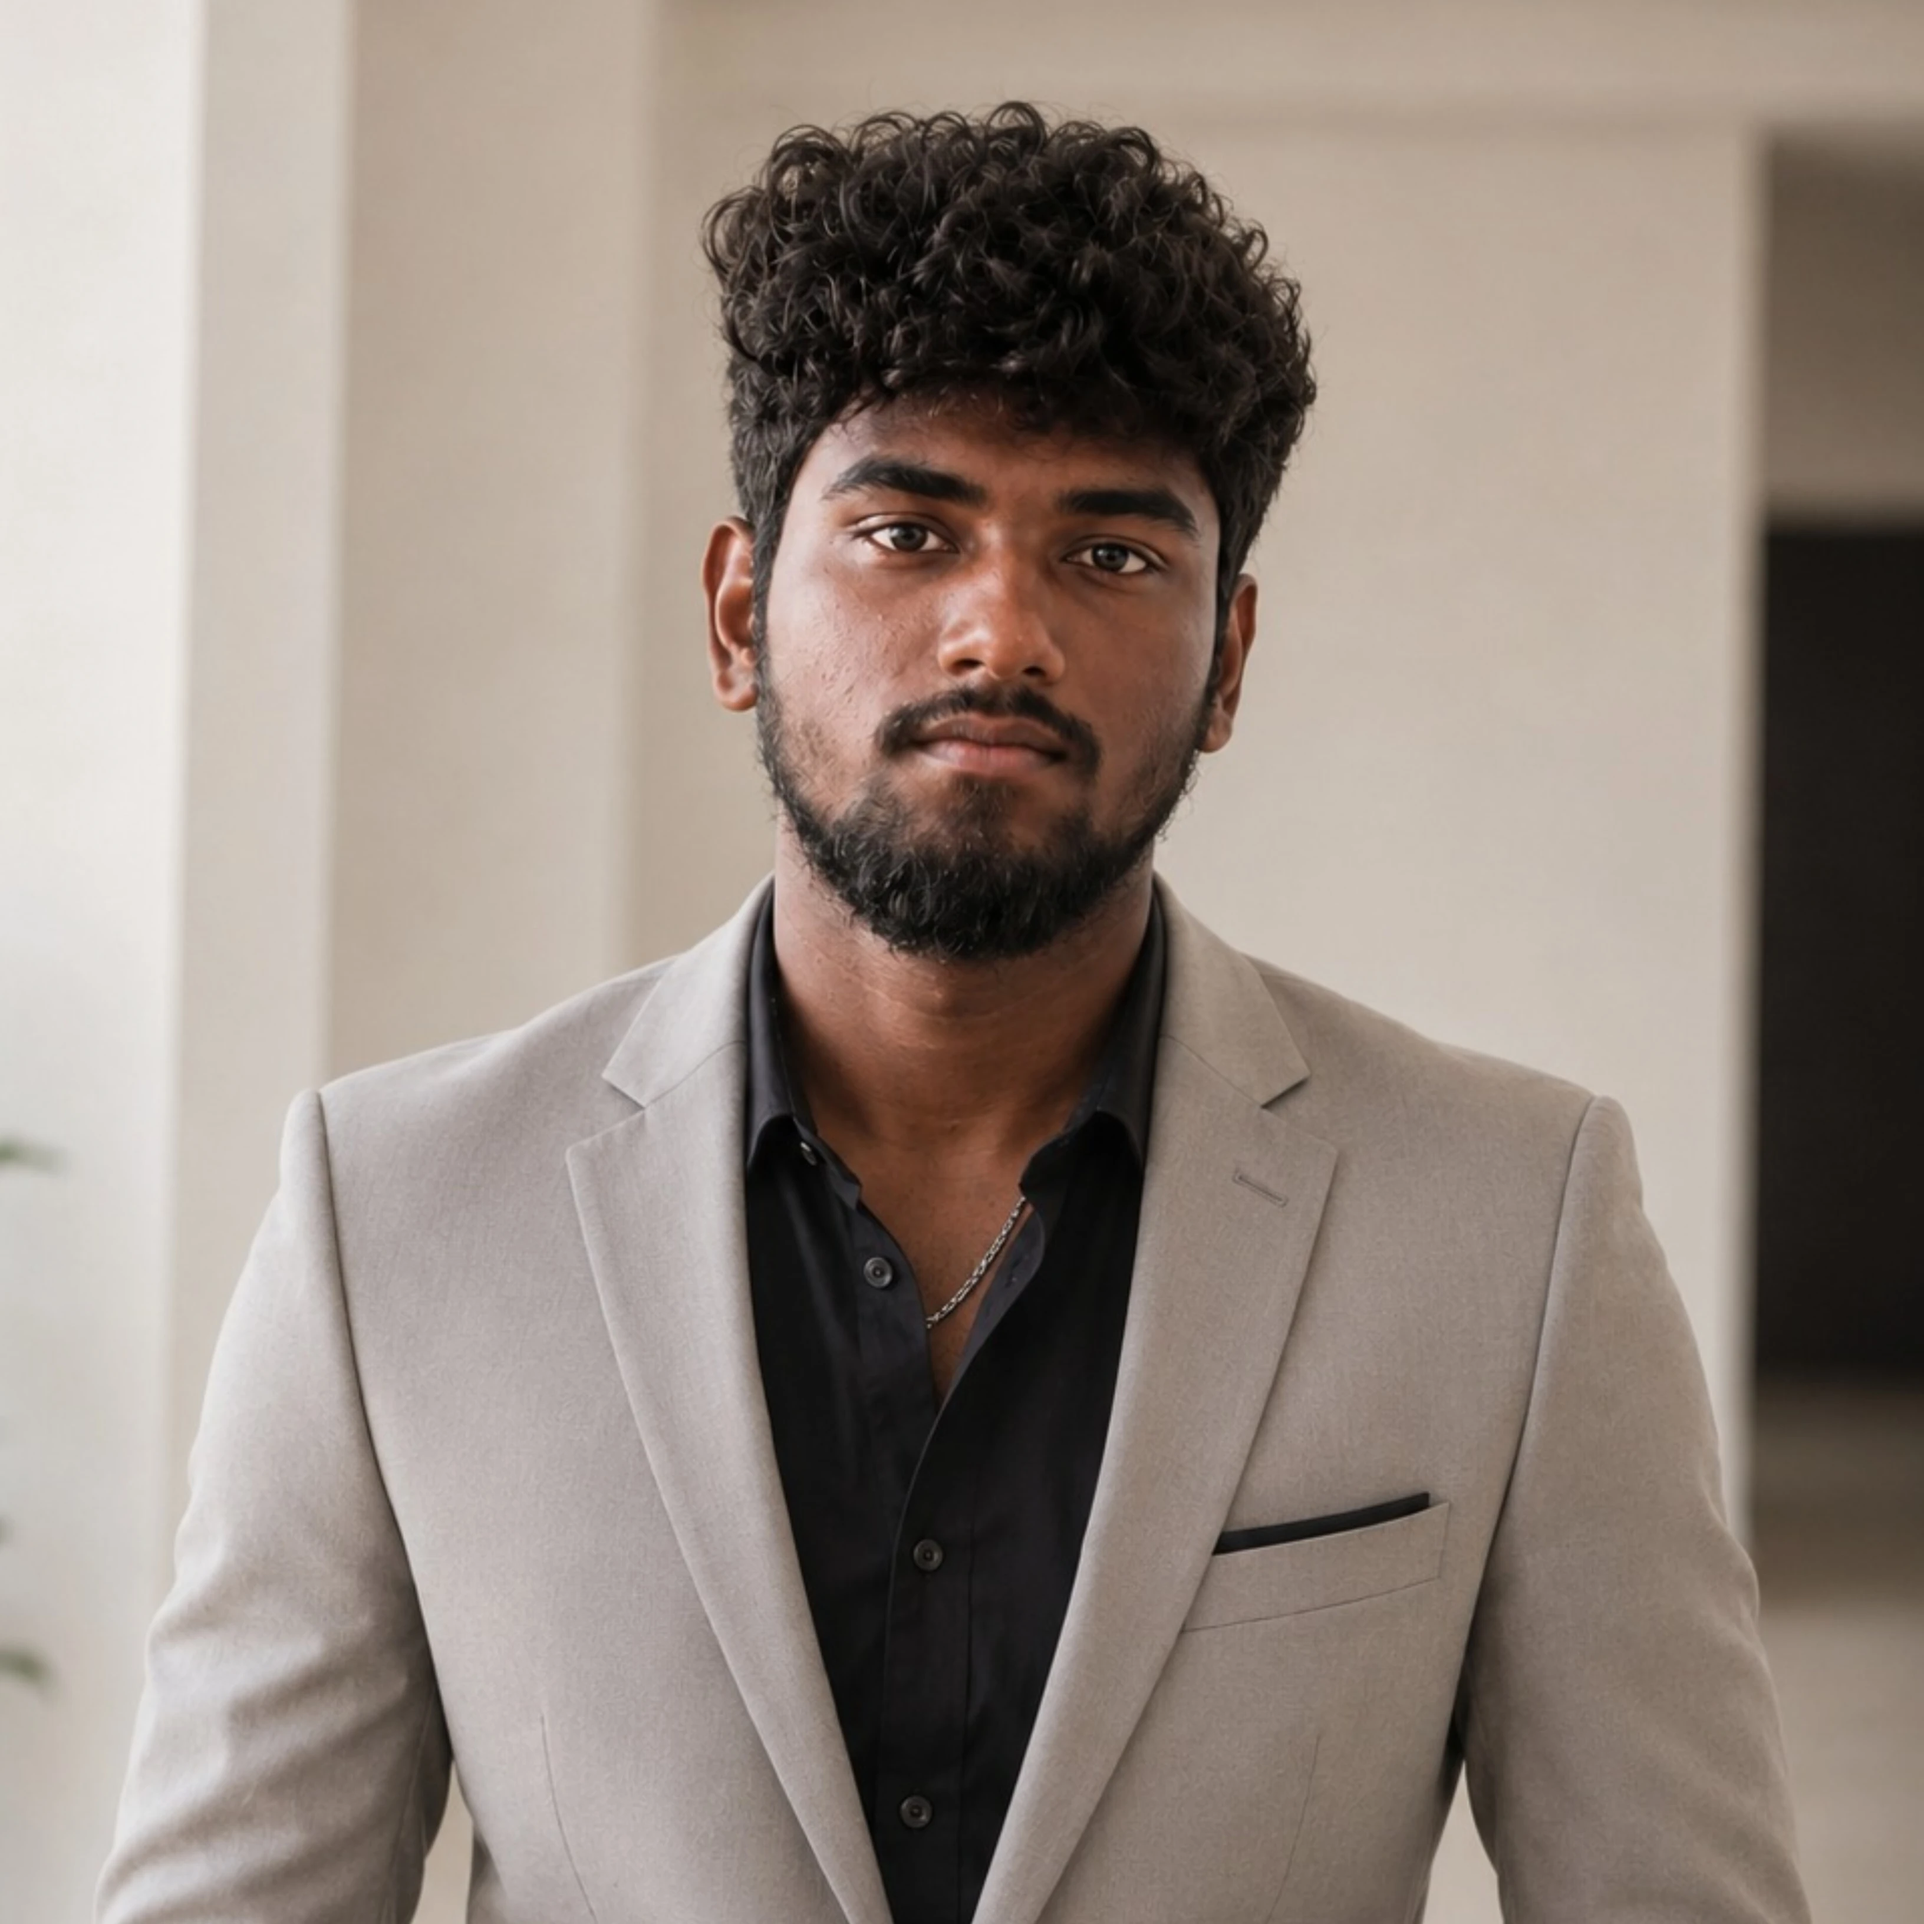
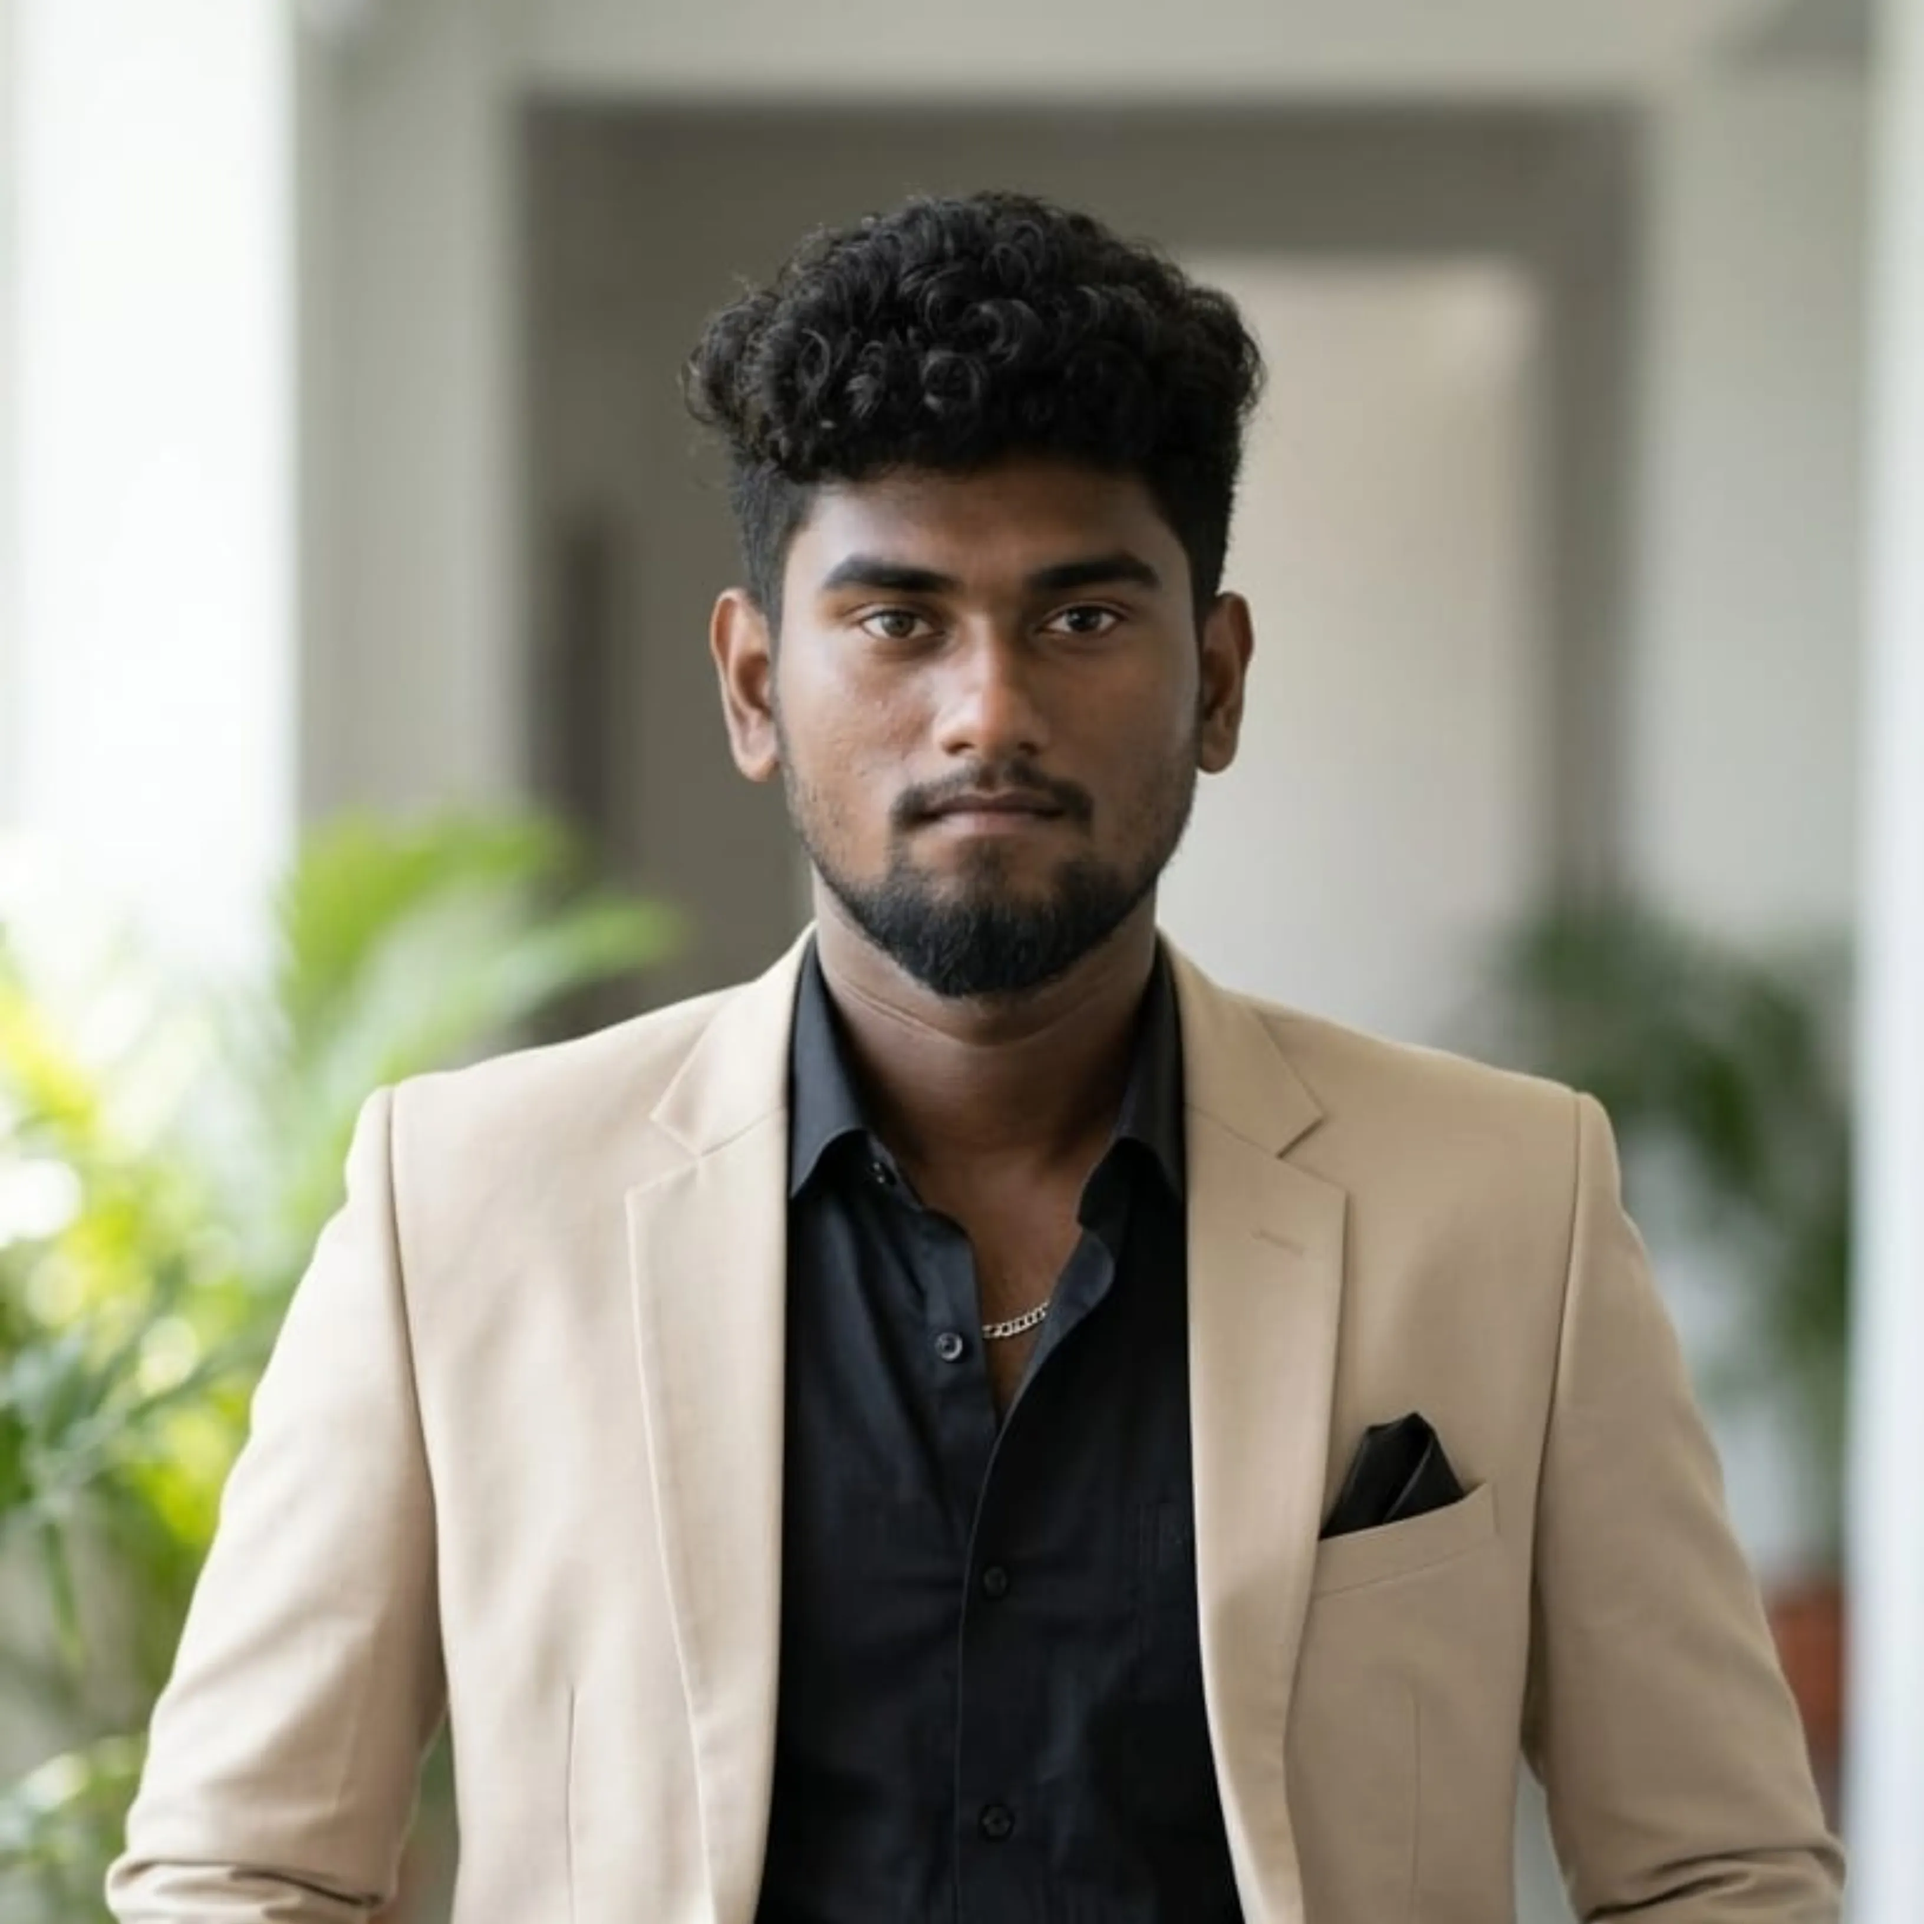
added

diff --git a/components/partner/PartnerAppSection.tsx b/components/partner/PartnerAppSection.tsx
@@ -71,23 +71,23 @@ export default function PartnerAppSection() {
             </div>
 
             {/* Right Action Column */}
-            <div className="lg:col-span-6 flex flex-col justify-center items-center bg-surface-off border border-surface-border rounded-3xl p-8 sm:p-12">
+            <div className="lg:col-span-6 flex flex-col justify-center items-center bg-navy border border-white/10 rounded-3xl p-8 sm:p-12">
               <motion.div
                 initial="hidden"
                 whileInView="visible"
                 viewport={{ once: true, margin: '-60px' }}
                 variants={fadeUp}
                 transition={{ ...TRANSITION_DEFAULT, delay: 0.15 }}
-                className="text-center space-y-6 w-full max-w-sm"
+                className="text-center space-y-6 w-full"
               >
                 <span className="text-xs font-bold text-lime uppercase tracking-widest block">
                   Download Partner App
                 </span>
-                <p className="text-sm text-text-soft leading-relaxed">
-                  Access partner tools directly. Install the Salon Partner application on supported Android systems.
+                <p className="text-sm text-white/70 leading-relaxed">
+                  Access partner tools directly. Install the Salon Partner application on Android or iOS.
                 </p>
                 
-                {/* Embedded central store app action buttons (iOS is hidden via props) */}
+                {/* Embedded central store app action buttons */}
                 <div className="flex flex-col items-center gap-4 pt-2">
                   <AppStoreActions type="partner" />
                 </div>

diff --git a/components/about/AboutProblem.tsx b/components/about/AboutProblem.tsx
@@ -7,8 +7,8 @@ import { fadeUp, TRANSITION_DEFAULT } from '@/lib/tokens'
 import { teamData } from '@/lib/companyData'
 
 export default function AboutProblem() {
-  const founderName = teamData.founders.find(f => f.role === 'Founder')?.name || 'Jayaprakash Thangavel'
-  const coFounderName = teamData.founders.find(f => f.role === 'Co-Founder')?.name || 'Allwin E'
+  const founderName = teamData.founders.find(f => f.role === 'Founder & CEO')?.name || 'Jayaprakash Thangavel'
+  const coFounderName = teamData.founders.find(f => f.role === 'Co-Founder & COO')?.name || 'Allwin E'
 
   return (
     <section className="section-padding bg-white text-text" aria-labelledby="problem-heading">
@@ -61,12 +61,12 @@ export default function AboutProblem() {
               transition={{ duration: 0.6, ease: [0.22, 1, 0.36, 1] }}
               className="bg-surface-off border border-surface-border rounded-2xl p-6 shadow-sm relative overflow-hidden"
             >
-              <div className="relative rounded-xl overflow-hidden aspect-[4/3] mb-5 bg-surface-warm border border-surface-border">
+              <div className="relative rounded-xl overflow-hidden aspect-[3/4] mb-5 bg-surface-warm border border-surface-border">
                 <Image
                   src="/images/team/jayaprakash.webp"
                   alt="Founder Jayaprakash Thangavel"
-                  width={600}
-                  height={450}
+                  width={800}
+                  height={1067}
                   className="w-full h-full object-cover"
                   loading="lazy"
                 />

diff --git a/lib/companyData.ts b/lib/companyData.ts
@@ -22,7 +22,7 @@ export const companyData = {
     },
     partner: {
       android: 'https://play.google.com/store/apps/details?id=com.jayple.vendor',
-      ios: '', // Not yet supplied in Module 0
+      ios: 'https://apps.apple.com/in/app/jayple-partner/id6779543060',
     },
   },
 
@@ -64,14 +64,14 @@ export const teamData: {
   founders: [
     {
       name: 'Jayaprakash Thangavel',
-      role: 'Founder',
+      role: 'Founder & CEO',
       bio: "Leading Jayple's vision and shaping ideas into meaningful digital experiences.",
       photo: '/images/team/jayaprakash.webp',
       initials: 'JP',
     },
     {
       name: 'Allwin E',
-      role: 'Co-Founder',
+      role: 'Co-Founder & COO',
       bio: "Supporting Jayple's direction through collaboration, strategy, and a shared vision for growth.",
       photo: '/images/team/allwin.webp',
       initials: 'AW',
@@ -96,7 +96,7 @@ export const teamData: {
       name: 'Vidyasri R',
       role: 'HR',
       bio: "Supporting Jayple's communication, partner coordination, and growing work culture.",
-      photo: null,
+      photo: '/images/team/vidyasri.webp',
       initials: 'VR',
     },
   ],
@@ -126,7 +126,7 @@ export const teamData: {
       name: 'Ashwin S',
       role: 'Software Developer',
       bio: "Contributing to the development and continuous improvement of Jayple's technology platforms.",
-      photo: null,
+      photo: '/images/team/ashwin.webp',
       initials: 'AS',
     },
   ],

diff --git a/components/about/AboutHero.tsx b/components/about/AboutHero.tsx
@@ -35,7 +35,7 @@ export default function AboutHero() {
           <span className="text-lime font-medium">About Jayple</span>
         </div>
 
-        <div className="max-w-4xl">
+        <div className="max-w-5xl">
           {/* Eyebrow Label */}
           <motion.span
             initial={{ opacity: 0, y: 10 }}
@@ -61,7 +61,7 @@ export default function AboutHero() {
             initial={{ opacity: 0, y: 15 }}
             animate={{ opacity: 1, y: 0 }}
             transition={{ duration: 0.6, delay: 0.2, ease: EASE }}
-            className="text-base sm:text-lg text-text-on-dark-soft/90 leading-relaxed max-w-2xl"
+            className="text-base sm:text-lg text-text-on-dark-soft/90 leading-relaxed max-w-3xl"
           >
             Jayple began from salon-related friction personally experienced and observed during college. What started as a question about making salon discovery and booking easier gradually developed into a larger idea connecting customers and salon businesses through digital experiences.
           </motion.p>

diff --git a/components/team/FoundingLeadership.tsx b/components/team/FoundingLeadership.tsx
@@ -7,17 +7,17 @@ import { fadeUp, TRANSITION_DEFAULT } from '@/lib/tokens'
 import { teamData } from '@/lib/companyData'
 
 export default function FoundingLeadership() {
-  const founder = teamData.founders.find(m => m.role === 'Founder') || {
+  const founder = teamData.founders.find(m => m.role === 'Founder & CEO') || {
     name: 'Jayaprakash Thangavel',
-    role: 'Founder',
+    role: 'Founder & CEO',
     bio: "Leading Jayple's vision and shaping ideas into meaningful digital experiences.",
     photo: '/images/team/jayaprakash.webp',
     initials: 'JP'
   }
   
-  const coFounder = teamData.founders.find(m => m.role === 'Co-Founder') || {
+  const coFounder = teamData.founders.find(m => m.role === 'Co-Founder & COO') || {
     name: 'Allwin E',
-    role: 'Co-Founder',
+    role: 'Co-Founder & COO',
     bio: "Supporting Jayple's direction through collaboration, strategy, and a shared vision for growth.",
     photo: '/images/team/allwin.webp',
     initials: 'AW'

diff --git a/hooks/useDeeplink.ts b/hooks/useDeeplink.ts
@@ -46,7 +46,10 @@ function getPlatform(): 'ios' | 'android' | 'desktop' {
 function handleAppRedirect() {
   const platform = getPlatform()
 
-  if (platform === 'desktop') return // Desktop: show normal website
+  if (platform === 'desktop') {
+    window.open(PLAY_STORE_URL, '_blank', 'noopener,noreferrer')
+    return
+  }
 
   if (platform === 'android') {
     // Android Intent URL — opens the app if installed, otherwise does nothing.
@@ -105,7 +108,7 @@ export function getStoreUrl(): string {
   const platform = getPlatform()
   if (platform === 'ios') return APP_STORE_URL
   if (platform === 'android') return PLAY_STORE_URL
-  return '#get-app' // Desktop: scroll to CTA section
+  return PLAY_STORE_URL // Desktop: open Play Store page
 }
 
 /* ── React hook ─────────────────────────────────────── */

diff --git a/components/about/IdeaGrowth.tsx b/components/about/IdeaGrowth.tsx
@@ -6,8 +6,8 @@ import { fadeUp, TRANSITION_DEFAULT } from '@/lib/tokens'
 import { teamData } from '@/lib/companyData'
 
 export default function IdeaGrowth() {
-  const founderName = teamData.founders.find(f => f.role === 'Founder')?.name?.split(' ')[0] || 'Jayaprakash'
-  const coFounderName = teamData.founders.find(f => f.role === 'Co-Founder')?.name?.split(' ')[0] || 'Allwin'
+  const founderName = teamData.founders.find(f => f.role === 'Founder & CEO')?.name?.split(' ')[0] || 'Jayaprakash'
+  const coFounderName = teamData.founders.find(f => f.role === 'Co-Founder & COO')?.name?.split(' ')[0] || 'Allwin'
 
   return (
     <section className="section-padding bg-surface-off text-text" aria-labelledby="idea-growth-heading">

diff --git a/components/Team.tsx b/components/Team.tsx
@@ -6,8 +6,8 @@ import Link from 'next/link'
 import { fadeUp, staggerContainer, TRANSITION_DEFAULT } from '@/lib/tokens'
 
 const MEMBERS = [
-  { name: 'Jayaprakash',  role: 'Product Lead',       photo: '/images/team/jayaprakash.webp', initials: 'JP' },
-  { name: 'Allwin',       role: 'Operations Lead',     photo: '/images/team/allwin.webp',                      initials: 'AW' },
+  { name: 'Jayaprakash',  role: 'Founder & CEO',       photo: '/images/team/jayaprakash.webp', initials: 'JP' },
+  { name: 'Allwin',       role: 'Co-Founder & COO',    photo: '/images/team/allwin.webp',                      initials: 'AW' },
 ]
 
 const AVATARCOLORS = [
